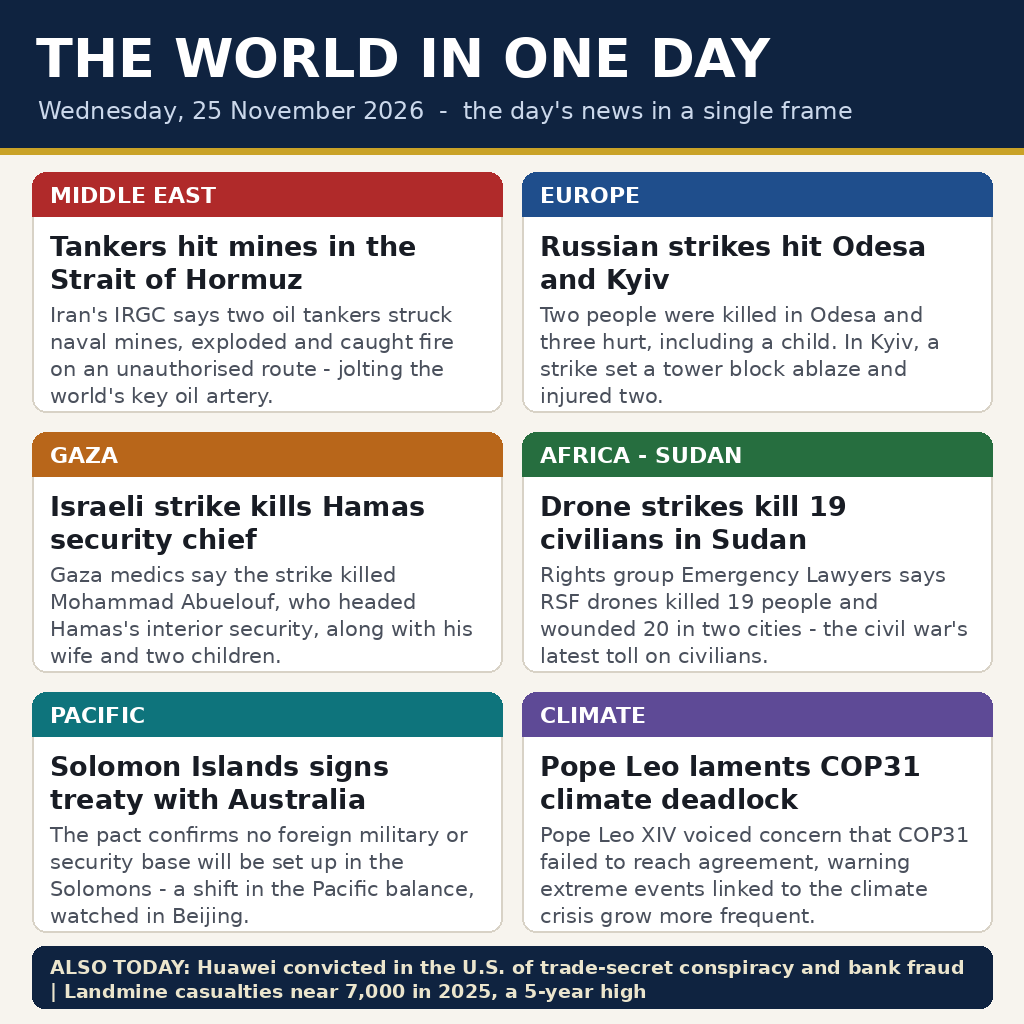
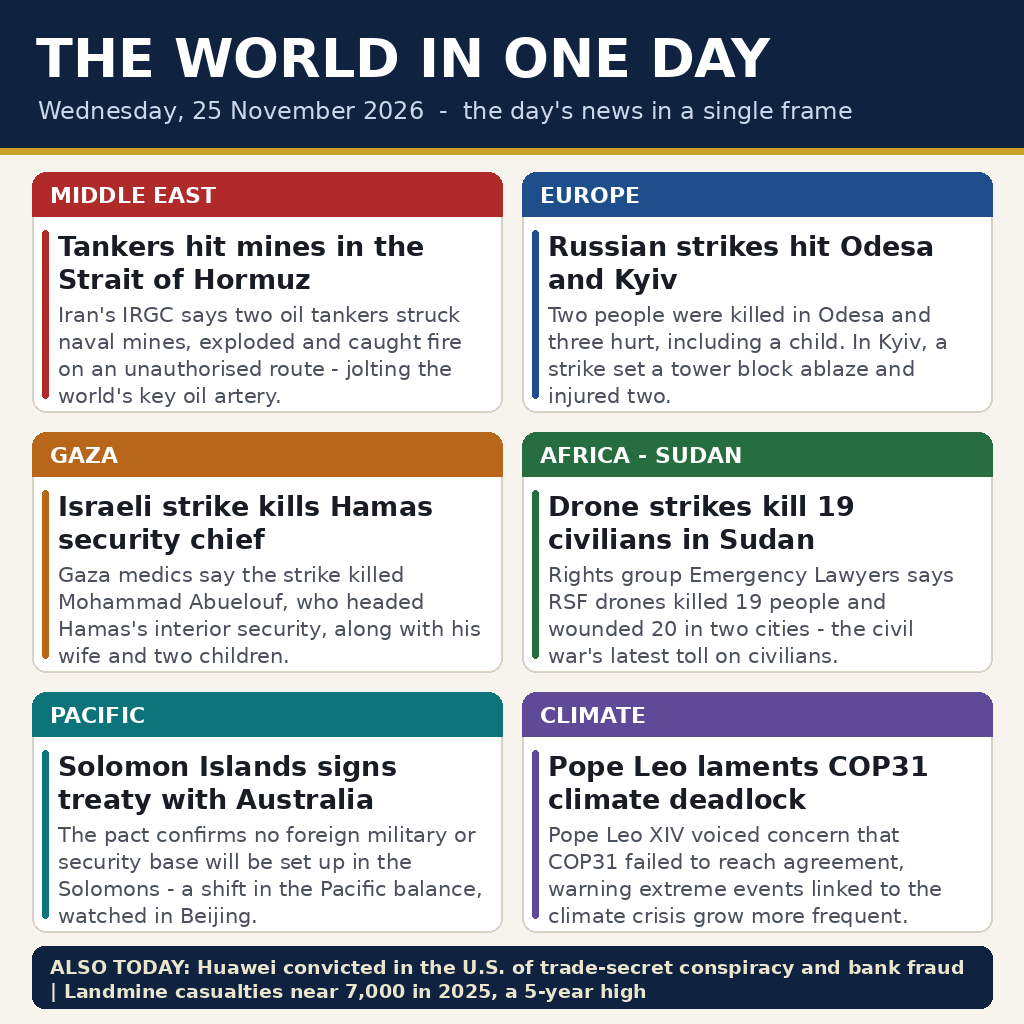
Improve cards: adaptive headline size and accent stripes

diff --git a/main.py b/main.py
@@ -42,6 +42,21 @@ def wrap(draw, text, fnt, max_width):
     return lines
 
 
+def fit_headline(draw, text, max_width, max_lines=2, start=27, floor=20):
+    """Largest bold font whose wrapping of text fits max_lines lines.
+
+    Long headlines shrink instead of spilling past their card; short
+    ones keep the full start size.
+    """
+    size = start
+    while size > floor:
+        lines = wrap(draw, text, font(size, True), max_width)
+        if len(lines) <= max_lines:
+            return size, lines
+        size -= 1
+    return floor, wrap(draw, text, font(floor, True), max_width)
+
+
 STORIES = [
     ("MIDDLE EAST", (176, 42, 42),
      "Tankers hit mines in the Strait of Hormuz",
@@ -96,13 +111,16 @@ def main():
         d.rounded_rectangle([x, y, x + cw, y + 44], radius=14, fill=accent)
         d.rectangle([x, y + 22, x + cw, y + 44], fill=accent)
         d.text((x + 18, y + 10), label, font=font(22, True), fill=(255, 255, 255))
+        # Accent stripe down the card's left edge, in the story's colour
+        d.rounded_rectangle([x + 10, y + 58, x + 16, y + ch - 14], radius=3, fill=accent)
         ty = y + 58
-        for line in wrap(d, head, font(27, True), cw - 36):
-            d.text((x + 18, ty), line, font=font(27, True), fill=(24, 28, 36))
-            ty += 33
+        hsize, hlines = fit_headline(d, head, cw - 36)
+        for line in hlines:
+            d.text((x + 26, ty), line, font=font(hsize, True), fill=(24, 28, 36))
+            ty += hsize + 6
         ty += 6
-        for line in wrap(d, body, font(21), cw - 36):
-            d.text((x + 18, ty), line, font=font(21), fill=(74, 80, 92))
+        for line in wrap(d, body, font(21), cw - 44):
+            d.text((x + 26, ty), line, font=font(21), fill=(74, 80, 92))
             ty += 27
 
     # Footer
